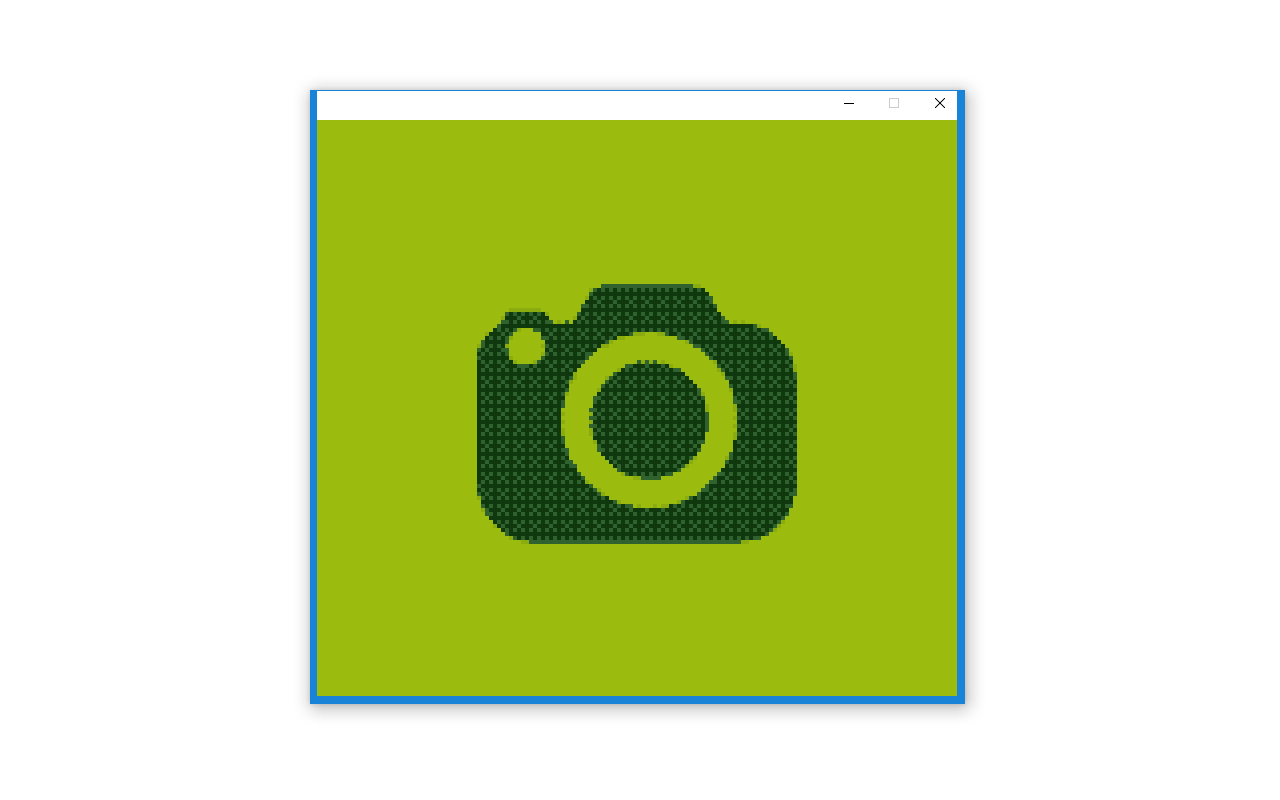
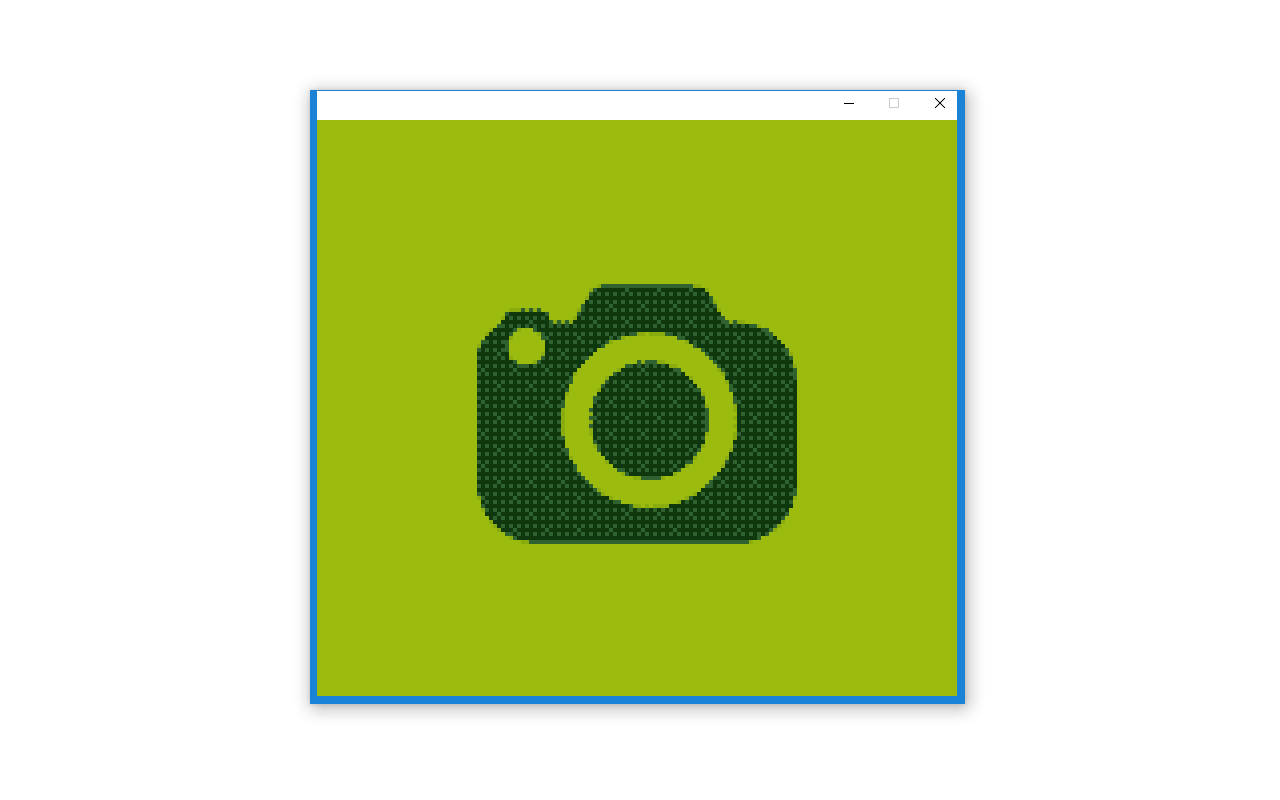
Update to v1.3

Changed region(s): [[0.375, 0.3438, 0.625, 0.6875]]

diff --git a/gbselfie.js b/gbselfie.js
@@ -10,31 +10,9 @@ class GBSelfie {
         this.draft = null;
         this.draftCtx = null;
         this.filterOutput = null;
-        this.shutter = null;
-        this.offsetX = 0;
-        this.offsetY = 0;
+        this.isMirrored = true;
+        this.offsetX = this.offsetY = 0;
         this.scale = 1;
-
-        // GB colors            grayscale colors
-        this.colors = [
-            [ 15,  56,  15],    // [  0,   0,   0],
-            [ 48,  98,  48],    // [ 85,  85,  85],
-            [139, 172,  15],    // [170, 170, 170],
-            [155, 188,  15]     // [255, 255, 255]
-        ];
-
-        // 8-bit grayscale to 2-bit monochrome GB,
-        // 256 / 4 = 64 = 8 x 8 threshold map
-        this.thresholdMap = [
-            [ 0, 48, 12, 60,  3, 51, 15, 63],
-            [32, 16, 44, 28, 35, 19, 47, 31],
-            [ 8, 56,  4, 52, 11, 59,  7, 55],
-            [40, 24, 36, 20, 43, 27, 39, 23],
-            [ 2, 50, 14, 62,  1, 49, 13, 61],
-            [34, 18, 46, 30, 33, 17, 45, 29],
-            [10, 58,  6, 54,  9, 57,  5, 53],
-            [42, 26, 38, 22, 41, 25, 37, 21]
-        ];
     }
 
     init() {
@@ -47,14 +25,14 @@ class GBSelfie {
         this.sound.src = `audio/shutter.${this.sound.canPlayType("audio/mpeg") ? "mp3" : "ogg"}`;
         this.sound.preload = "auto";
         this.video = document.querySelector("video");
-        this.canvas = document.getElementById("screen");
+        this.canvas = document.getElementById("gb-screen");
         this.ctx = this.canvas.getContext("2d");
-        this.shutter = document.getElementById("shutter");
         this.draft = document.createElement("canvas");
+        this.draftCtx = this.draft.getContext("2d");
+
         this.draft.width = width;
         this.draft.height = height;
-        this.draft.style.display = "none";
-        this.draftCtx = this.draft.getContext("2d");
+        this.draft.classList.add("hidden");
 
         this.initVideo(width, height);
     }
@@ -64,20 +42,37 @@ class GBSelfie {
 
         this.display.addEventListener("draw", (event) => {
             // const {dt} = event.detail;
-
             if(this.filterOutput != null) {
                 this.ctx.putImageData(this.filterOutput, 0, 0);
                 this.filterOutput = null;
             }
         });
 
+        // GB colors            grayscale colors
+        const colors = [
+            [ 15,  56,  15],    // [  0,   0,   0],
+            [ 48,  98,  48],    // [ 85,  85,  85],
+            [139, 172,  15],    // [170, 170, 170],
+            [155, 188,  15]     // [255, 255, 255]
+        ];
+        // 256 color (8-bit) grayscale to 4 color (2-bit) grayscale,
+        // 256 / 4 = 64 = 8 x 8 threshold map
+        const thresholdMap = [
+            [ 0, 48, 12, 60,  3, 51, 15, 63],
+            [32, 16, 44, 28, 35, 19, 47, 31],
+            [ 8, 56,  4, 52, 11, 59,  7, 55],
+            [40, 24, 36, 20, 43, 27, 39, 23],
+            [ 2, 50, 14, 62,  1, 49, 13, 61],
+            [34, 18, 46, 30, 33, 17, 45, 29],
+            [10, 58,  6, 54,  9, 57,  5, 53],
+            [42, 26, 38, 22, 41, 25, 37, 21]
+        ];
+
         this.display.addEventListener("tick", (event) => {
             // const {dt} = event.detail;
             const intensity = (r, g, b) => Math.floor(0.2126 * r + 0.7152 * g + 0.0722 * b);
             const clamp = (val, min, max) => Math.max(min, Math.min(val, max));
-            const mapSide = this.thresholdMap.length;
-            const mapSize = mapSide ** 2;
-            const numColors = this.colors.length;
+            const mapSide = thresholdMap.length;
 
             this.draftCtx.drawImage(this.video, this.offsetX, this.offsetY, 10 * this.scale + this.offsetX, 9 * this.scale + this.offsetY,
                 0, 0, this.draft.width, this.draft.height);
@@ -94,17 +89,19 @@ class GBSelfie {
                 const x = i / 4 % width;
                 const y = Math.floor(i / 4 / width);
                 const gray = intensity(...pixels.slice(i, i + 3));
-                const threshold = this.thresholdMap[x % mapSide][y % mapSide];
-                const nearestPixel = Math.floor(clamp(numColors * gray / 256 + threshold / mapSize - 0.5, 0, numColors - 1));
+                const thresholdX = this.isMirrored ? mapSide - 1 - x % mapSide : x % mapSide;
+                const thresholdY = y % mapSide;
+                const threshold = thresholdMap[thresholdX][thresholdY];
+                const nearestPixel = Math.floor(clamp(gray / 64 + threshold / 64 - 0.5, 0, 3)); // floor(clamp(colors * gray / 256 + threshold / mapsize - 0.5, 0, colors - 1))
 
                 for(let k = 0; k < 4; k++) {
                     for(let h = 0; h < 4; h++) {
-                        const j = 16 * x + 64 * width * y + 4 * h + 16 * width * k;
-                        output.data[j + 0] = this.colors[nearestPixel][0];
-                        output.data[j + 1] = this.colors[nearestPixel][1];
-                        output.data[j + 2] = this.colors[nearestPixel][2];
+                        const outX = this.isMirrored ? width - 1 - x : x;
+                        const j = 16 * outX + 64 * width * y + 4 * h + 16 * width * k;
+                        output.data[j + 0] = colors[nearestPixel][0];
+                        output.data[j + 1] = colors[nearestPixel][1];
+                        output.data[j + 2] = colors[nearestPixel][2];
                         output.data[j + 3] = 255;
-                        // too slow :(
                         // output.data.set(this.colors[nearestPixel].concat(255), j);
                     }
                 }
@@ -116,12 +113,12 @@ class GBSelfie {
 
     initVideo(width, height) {
         if(navigator.mediaDevices) {
-            navigator.mediaDevices.getUserMedia({
-                video: {width, height, facingMode: "user"}
-            }).then((stream) => this.loadVideo(stream)).catch((error) => {
-                console.log(error);
-                this.hideWebcam();
-            });
+            navigator.mediaDevices.getUserMedia({video: {width, height, facingMode: "user"}})
+                .then((stream) => this.loadVideo(stream))
+                .catch((error) => {
+                    console.log(error);
+                    this.hideWebcam();
+                });
         } else {
             console.log("getUserMedia() unsupported");
             this.hideWebcam();
@@ -140,8 +137,10 @@ class GBSelfie {
 
             this.orient();
 
-            this.shutter.style.display = "block";
-            this.shutter.addEventListener("click", (event) => {
+            document.querySelectorAll(".gb-button").forEach(button => button.classList.remove("hidden"));   // show buttons
+
+            const shutterBtn = document.getElementById("gb-shutter");
+            shutterBtn.addEventListener("click", (event) => {
                 const timestamp = Date.now();
 
                 this.display.pause();
@@ -150,11 +149,15 @@ class GBSelfie {
                 }, 500);
                 this.sound.currentTime = 0;
                 this.sound.play();
-                this.shutter.href = this.canvas.toDataURL();
-                this.shutter.download = `img${timestamp}`;
+                shutterBtn.href = this.canvas.toDataURL();
+                shutterBtn.download = `img${timestamp}`;
             });
 
-            this.shutter.classList.add("active");
+            const flipBtn = document.getElementById("gb-flip");
+            flipBtn.addEventListener("click", (event) => {
+                this.isMirrored = !this.isMirrored;
+            });
+
             this.display.resume();
         });
     }
@@ -170,12 +173,13 @@ class GBSelfie {
     hideWebcam() {
         this.video.parentNode.removeChild(this.video);
         this.canvas.style.backgroundImage = `url("images/error.png")`;
-        this.shutter.classList.remove("active");
         this.display.pause();
+        document.querySelectorAll(".gb-button").forEach(button => button.classList.add("hidden"));   // hide buttons
     }
 }
 
 window.addEventListener("load", (event) => {
     const gbselfie = new GBSelfie();
     gbselfie.init();
+    window.addEventListener("orientationchange", gbselfie.orient());
 });

diff --git a/index.html b/index.html
@@ -9,8 +9,8 @@
 		<meta name="application-name" content="Game Boy Selfie" />
 		<meta name="author" content="Kyle Amoroso" />
 		<meta name="description" content="A selfie Chrome App that lets you capture yourself in a Nintendo Game Boy." />
-		<meta name="keywords" content="gameboy,game boy,selfie,filter,web app,chrome app" />
-		<meta name="version" content="1.2" />
+		<meta name="keywords" content="game boy selfie,nintendo,game boy,selfie,filter,html5,chrome app" />
+		<meta name="version" content="1.3" />
 		<meta property="og:title" content="Game Boy Selfie" />
 		<meta property="og:type" content="website" />
 		<meta property="og:url" content="https://kamoroso94.github.io/game-boy-selfie" />
@@ -18,7 +18,12 @@
 		<meta property="og:description" content="A selfie Chrome App that lets you capture yourself in a Nintendo Game Boy." />
 
 		<!-- Favicons -->
-		<link rel="icon" type="image/png" href="icons/favicon-96.png" />
+        <link rel="icon" type="image/png" href="icons/favicon-16.png" />
+        <link rel="icon" type="image/png" href="icons/favicon-32.png" />
+        <link rel="icon" type="image/png" href="icons/favicon-48.png" />
+        <link rel="icon" type="image/png" href="icons/favicon-64.png" />
+        <link rel="icon" type="image/png" href="icons/favicon-96.png" />
+        <link rel="icon" type="image/png" href="icons/favicon-128.png" />
 
 		<!-- Custom -->
 		<link rel="stylesheet" href="style.css" />
@@ -27,12 +32,11 @@
 	</head>
 
 	<body>
-		<div id="gameboy">
-			<video autoplay></video>
-			<div id="camera">
-				<canvas id="screen" width="640" height="576"></canvas>
-				<a href="#" download="" title="Take a selfie!" role="button" id="shutter"></a>
-			</div>
+		<div id="gb-container">
+			<video autoplay class="hidden"></video>
+			<canvas width="640" height="576" id="gb-screen"></canvas>
+			<div role="button" title="Flip camera" class="gb-button hidden" id="gb-flip"></div>
+			<a href="#" download="" role="button" title="Take a selfie!" class="gb-button hidden" id="gb-shutter"></a>
 		</div>
 	</body>
 </html>

diff --git a/style.css b/style.css
@@ -1,18 +1,18 @@
-html,body {
+html, body {
     margin: 0;
     padding: 0;
 }
 
-video {
+.hidden {
     display: none;
 }
 
-#camera {
+#gb-container {
     position: relative;
     overflow: hidden;
 }
 
-canvas {
+#gb-screen {
     display: block;
     background: url("images/thumb.png");
     background-size: cover;
@@ -20,25 +20,36 @@ canvas {
     height: 576px;
 }
 
-#shutter {
+.gb-button {
     transition: transform 0.5s;
-    display: none; /* shown on successful camera load */
     position: absolute;
-    top: 448px;
-    left: 64px;
-    width: 512px;
-    height: 96px;
-    transform: translate(0, 128px);
-    background: url("images/camera.png");
     background-position: 0 0;
     background-size: cover;
     cursor: pointer;
 }
 
-#camera:hover #shutter.active {
-    transform: translate(0, 0);
+.gb-button:active {
+    background-position: 0 100%;
 }
 
-#shutter:active {
-    background-position: 0 100%;
+#gb-container:hover .gb-button {
+    transform: translateY(0);
+}
+
+#gb-flip {
+    top: 32px;
+    right: 32px;
+    transform: translateY(-128px);
+    width: 96px;
+    height: 96px;
+    background-image: url("images/flip.png");
+}
+
+#gb-shutter {
+    top: 448px;
+    left: 64px;
+    width: 512px;
+    height: 96px;
+    transform: translate(0, 128px);
+    background-image: url("images/camera.png");
 }
